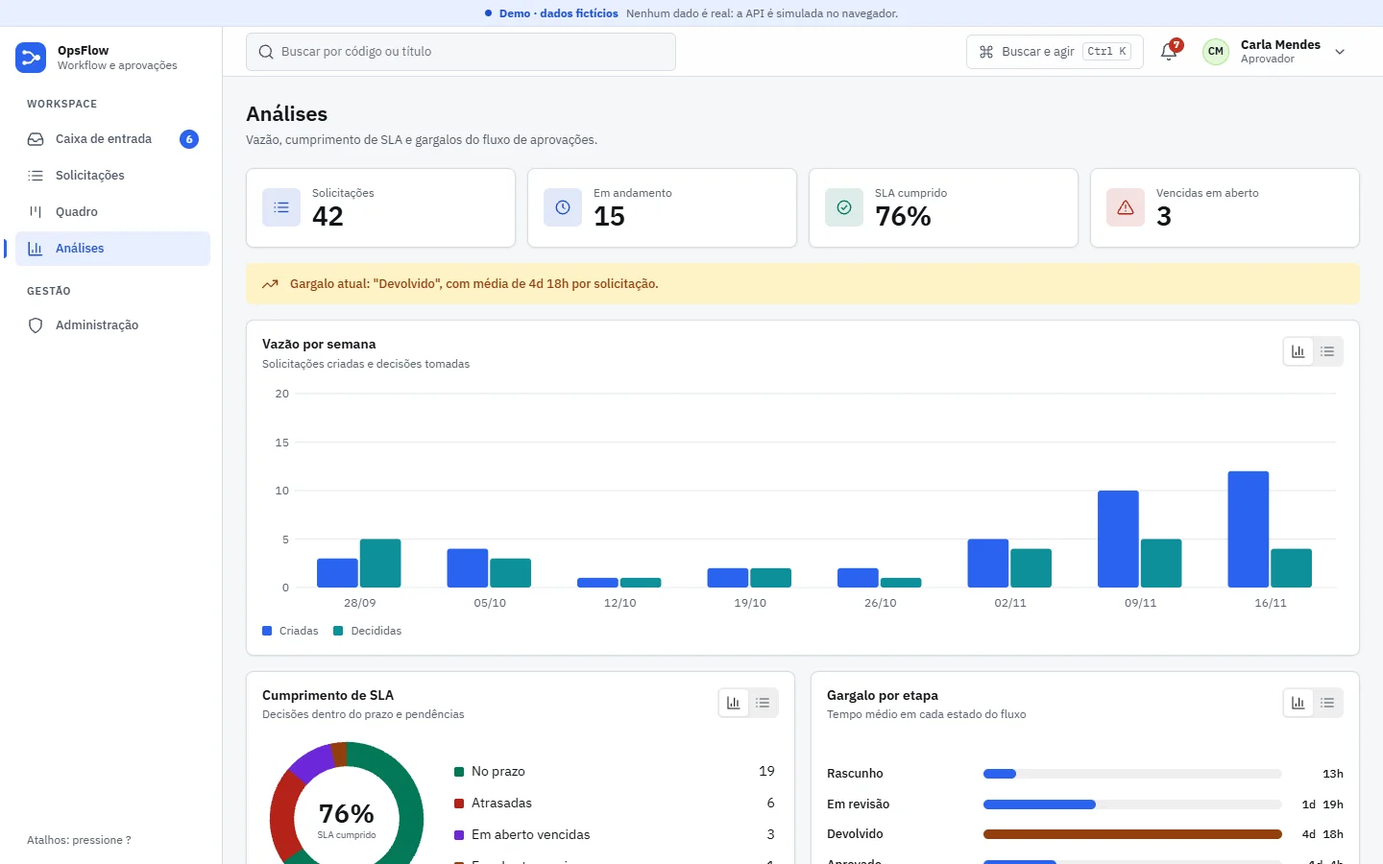
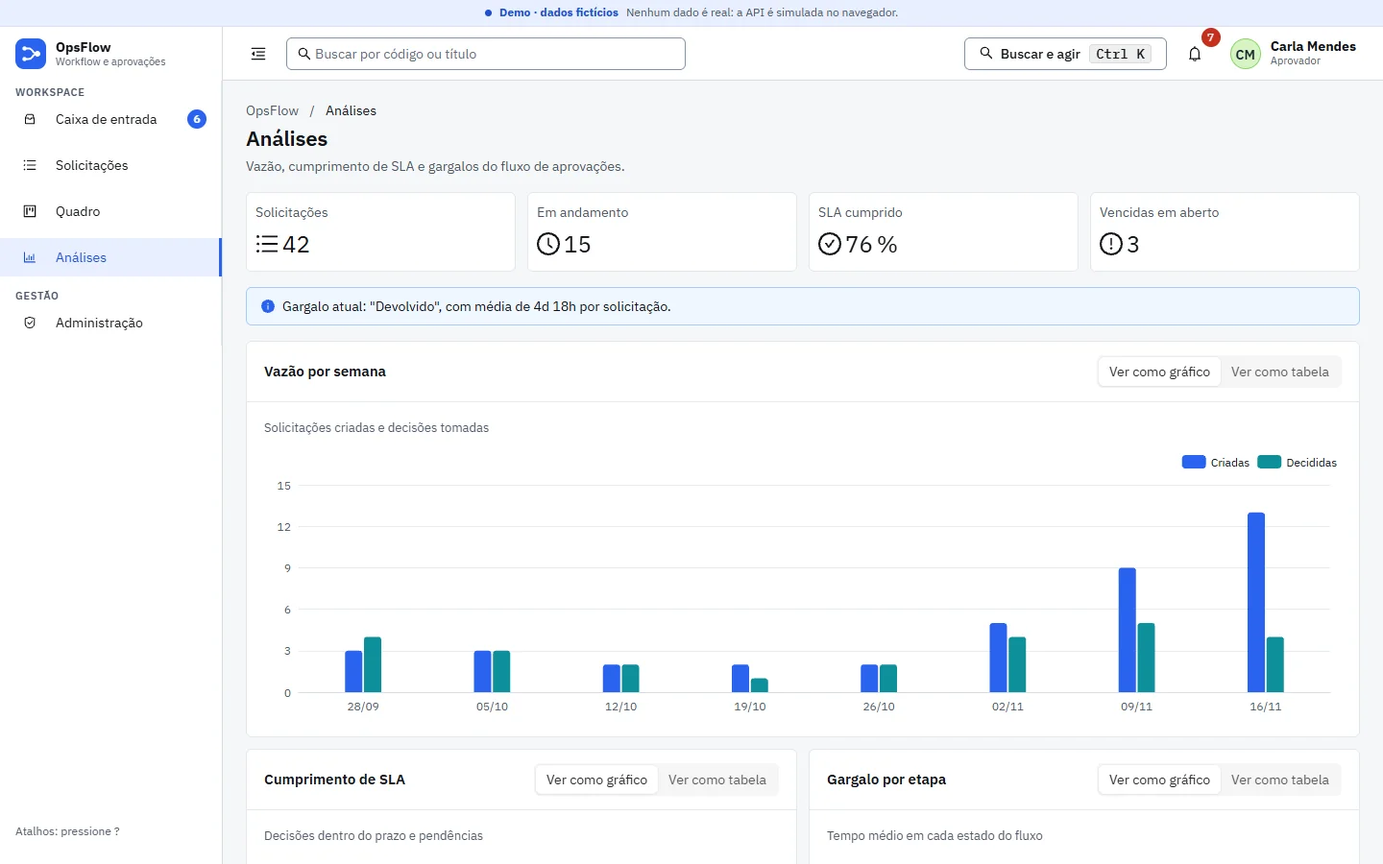
Update E2E with axe and geometry checks, CI, README, ADR and prints

diff --git a/README.md b/README.md
@@ -2,6 +2,8 @@
 
 Console de workflow e aprovações para quem decide o dia inteiro: cada papel abre o app na **caixa de entrada** das próprias tarefas, com SLA em contagem regressiva, aprovação em lote e atalhos de teclado. A demo abre como **Aprovador**, que é onde está o valor; o perfil troca o papel para ver o app como Solicitante, Revisor, Auditor ou Administrador. Por baixo há uma máquina de estados com permissões por papel, segregação de funções e trilha de auditoria imutável.
 
+A interface é feita com **NG-ZORRO (Ant Design para Angular)** e **Apache ECharts**, sempre por uma camada de wrappers própria (`src/app/ui`), com o tema do OpsFlow e Storybook de todos os componentes.
+
 Todos os dados são fictícios e a API é simulada no navegador (interceptor HTTP), então o app roda inteiro em qualquer hospedagem estática.
 
 **Demo:** https://nasckdev.github.io/opsflow/
@@ -44,13 +46,13 @@ Desktop em 1440x900 e celular em 390x844, com os dados fictícios de exemplo.
 
 - **Caixa de entrada por papel.** "Minhas tarefas" com contagem regressiva de SLA, filtros rápidos e salvos e atalhos `j`/`k`, `Enter`, `x`, `a`, `r`. Decidir **resolve a tarefa**: ela sai da caixa na hora, o contador e o selo caem, o SLA congela ("Decidida no prazo" ou "com 5h de atraso") e um aviso oferece **Desfazer** por 6 segundos (a decisão só é confirmada na API depois dessa janela). O que foi aprovado e falta concluir aparece no filtro "Para concluir".
 - **Aprovação em lote.** A seleção é congelada no clique, as chamadas rodam em paralelo com "Aprovando 3 de 8…" e barra de progresso, e o resultado lista o que foi pulado e por quê (item que passou do prazo no meio do caminho vira "pulado", sem abrir diálogo).
-- **Quadro kanban.** Arrastar com CDK DragDrop. Colunas que aceitam o movimento acendem durante o arraste; um movimento que a máquina de estados não prevê, ou que o papel não pode fazer, é bloqueado com explicação. Alternativa sem mouse: "Mover para" em cada cartão.
-- **Detalhe.** Cabeçalho com status e SLA, cadeia de aprovação (solicitação, revisão, aprovação, conclusão), ações conforme o papel, comentários em thread, anexos simulados e linha do tempo de auditoria.
-- **Nova solicitação.** Wizard em três etapas com validação, **rascunho salvo automaticamente** (recuperado ao recarregar) e revisão antes de enviar.
-- **Análises.** Vazão por semana, cumprimento de SLA, gargalo por etapa e ações por papel. Todo gráfico tem versão em tabela e descrição para leitor de tela.
-- **Administração.** Matriz de permissões visual, usuários de demonstração (atuar como) e as regras do fluxo.
-- **Lista de solicitações.** Tabela densa (ordenação por coluna, contadores por status, busca com debounce) que vira cartões no celular, e exportação em CSV (com proteção contra injeção de fórmula).
-- **Navegação de app.** Sidebar no desktop; no celular, barra inferior com Caixa, Quadro (ou Nova, para o Solicitante), Solicitações e **Mais** (Análises, Administração, Nova solicitação, paleta, atalhos e perfil), busca global, paleta de comandos (`Ctrl`/`⌘` + `K`), notificações, modal de atalhos (`?`) e estado na URL (rota por hash).
+- **Quadro kanban.** Arrastar com CDK DragDrop. Colunas que aceitam o movimento acendem durante o arraste; um movimento que a máquina de estados não prevê, ou que o papel não pode fazer, é bloqueado com explicação. Alternativa sem mouse: menu "Mover para" em cada cartão.
+- **Detalhe.** Cabeçalho com status e SLA, cadeia de aprovação em **Steps** (solicitação, revisão, aprovação, conclusão), ações conforme o papel, comentários em thread, anexos simulados e **Timeline** de auditoria.
+- **Nova solicitação.** Wizard em três etapas (**Steps**) com formulário reativo validado, **rascunho salvo automaticamente** (recuperado ao recarregar) e revisão antes de enviar.
+- **Análises.** Vazão por semana, cumprimento de SLA, gargalo por etapa e ações por papel, em ECharts. Todo gráfico tem versão em tabela e descrição para leitor de tela.
+- **Administração.** Matriz de permissões (RBAC) em tabela, usuários de demonstração (atuar como) e as regras do fluxo.
+- **Lista de solicitações.** Tabela com ordenação por coluna, filtros por status com contadores, paginação, busca com debounce e exportação em CSV (com proteção contra injeção de fórmula). No celular vira lista de cartões.
+- **Navegação de app.** `nz-layout` com sider recolhível, cabeçalho com busca, notificações e perfil, e trilha de navegação em cada tela. No celular, o menu vira gaveta e há barra inferior com Caixa, Quadro (ou Nova, para o Solicitante), Solicitações e **Mais** (Análises, Administração, Nova solicitação, paleta, atalhos e perfil). Paleta de comandos (`Ctrl`/`⌘` + `K`), modal de atalhos (`?`) e estado na URL (rota por hash).
 - **Preferências.** Papel, idioma (pt-BR e English, com plural correto), tema claro e escuro, densidade compacta ou confortável e "Simular falhas da API".
 
 ## Atalhos
@@ -64,35 +66,115 @@ Desktop em 1440x900 e celular em 390x844, com os dados fictícios de exemplo.
 | `j` `k` | Próxima e anterior tarefa (caixa de entrada) |
 | `Enter` / `x` / `a` / `r` | Abrir / selecionar para lote / aprovar / rejeitar ou devolver |
 
-## Identidade visual
-
-IBM Plex Sans na interface e IBM Plex Mono em códigos, IDs e prazos, ambas auto-hospedadas via `@fontsource` (nenhuma requisição externa). Grafite `#111418` e aço `#1C2128` no escuro, azul elétrico `#2F6BFF` como marca e ciano de destaque. Estados com cor semântica e sempre acompanhados de texto ou ícone: aprovado esmeralda, pendente âmbar, devolvido violeta, rejeitado vermelho, rascunho cinza. Cantos de 4 a 8 px e densidade ajustável.
-
-Os tokens vivem em `src/styles/tokens.scss`; as medidas do shell e os aliases de superfície, em `src/styles/base.scss`. No tema claro o ciano de gráficos é um tom mais escuro que o da marca, para manter 3:1 de contraste contra o fundo branco.
-
 ## Stack
 
-Angular 22 (standalone, signals, zoneless, control flow `@if/@for`), formulários reativos tipados, RxJS (busca com debounce e cancelamento via `switchMap`), Angular CDK (`Overlay`, `Dialog`, `DragDrop`, `TrapFocus`, `LiveAnnouncer`), SCSS, Vitest e Playwright + axe-core. Gráficos em SVG próprio, sem biblioteca.
+Angular 22 (standalone, signals, zoneless, control flow `@if/@for`), **NG-ZORRO 22.2.0** (Ant Design) com tema em Less, **ngx-echarts 22.0.0** sobre **Apache ECharts 6.1.0** (registro enxuto em `echarts/core`, renderer SVG), formulários reativos tipados, RxJS (busca com debounce e cancelamento via `switchMap`), Angular CDK (`DragDrop`, `LiveAnnouncer`, `BreakpointObserver`), SCSS, Vitest, Playwright + axe-core e **Storybook 10** (`@storybook/angular`) com o addon de acessibilidade.
+
+A escolha de versões está no [ADR 0001](docs/adr/0001-ui-ng-zorro-echarts.md): o NG-ZORRO 22.2.0 declara peers `@angular/* ^22.0.0`, então o Angular 22.3.0 do projeto ficou como estava (sem `ng update` nem downgrade).
+
+### Dependências e licenças
+
+Versões exatas no `package.json` (sem `^` nem `~`). Licenças conferidas em `node_modules` e com `npm view`.
+
+| Pacote | Versão | Licença | Uso |
+|---|---|---|---|
+| `ng-zorro-antd` | 22.2.0 | MIT | componentes (só dentro de `src/app/ui`) |
+| `@ant-design/icons-angular` | 22.1.1 | MIT | ícones (dependência do NG-ZORRO; só os usados são registrados) |
+| `echarts` | 6.1.0 | Apache-2.0 | gráficos |
+| `zrender` | 6.1.0 | BSD-3-Clause | motor de desenho do ECharts (transitiva) |
+| `ngx-echarts` | 22.0.0 | MIT | integração do ECharts com Angular |
+| `@angular/*` (core, common, forms, router, platform-browser, compiler, cdk) | 22.3.0 | MIT | framework |
+| `rxjs` | 7.8.2 | Apache-2.0 | reatividade |
+| `tslib` | 2.9.1 | 0BSD | helpers do TypeScript |
+| `@fontsource/ibm-plex-sans`, `@fontsource/ibm-plex-mono` | 5.3.0 | OFL-1.1 | fontes auto-hospedadas (já eram usadas antes) |
+| `storybook`, `@storybook/angular`, `@storybook/addon-a11y`, `@storybook/addon-docs` | 10.6.8 | MIT | Storybook (dev) |
+| `@angular-devkit/build-angular`, `@angular/platform-browser-dynamic`, `@angular/animations`, `zone.js` | 22.3.0 / 22.3.0 / 22.3.0 / 0.16.3 | MIT | exigidos pelo `@storybook/angular` (dev) |
+| `less` | 4.9.1 | Apache-2.0 | compila o tema do NG-ZORRO (dev) |
+| `@axe-core/playwright` | 4.14.0 | MPL-2.0 | axe nos testes E2E (dev; já era usado antes) |
+| `@playwright/test`, `typescript`, `vitest`, `eslint`, `angular-eslint` e demais ferramentas | ver `package.json` | MIT ou Apache-2.0 | testes, tipos e lint (dev) |
+
+Fora de "MIT ou Apache 2.0": as fontes (OFL-1.1, já existiam), `tslib` (0BSD), `zrender` (BSD-3-Clause, transitiva do ECharts) e o `axe-core` de testes (MPL-2.0, só desenvolvimento). Nenhuma é PrimeNG nem componente de licença restrita.
+
+`npm audit --omit=dev`: **0 vulnerabilidades**. O `npm audit` completo aponta 5 (2 moderadas e 3 altas) em dependências **só de desenvolvimento** do builder do Storybook (`webpack-dev-middleware`, `minimatch`); não entram no que vai para produção.
+
+## Camada de UI (`src/app/ui`)
+
+As telas **nunca** importam `ng-zorro-antd`, `echarts`, `ngx-echarts` nem os ícones: só os wrappers `app-*`. Uma regra de lint (`no-restricted-imports`, em `eslint.config.mjs`) barra esses imports fora de `src/app/ui`. Cada wrapper é standalone, com `OnPush`, signals e uma story com os estados e controles (`*.stories.ts`, na mesma pasta).
+
+Os inputs seguem o contrato de props dos wrappers React (`AppButton`: `variant`, `size`, `loading`, `disabled`, `icon`, `danger`):
+
+| Wrapper | Inputs principais | NG-ZORRO |
+|---|---|---|
+| `app-button` | `variant` (`primary`/`default`/`dashed`/`text`/`link`), `size` (`small`/`middle`/`large`), `loading`, `disabled`, `icon`, `danger`, `block`, `tone` (`success`, extensão do OpsFlow), `htmlType` | Button |
+| `app-icon-button` | `icon`, `label` (obrigatório), `variant`, `size`, `danger`, `loading`, `disabled` | Button |
+| `app-icon` | `name`, `size` (rem), `spin`, `label` | Icon |
+| `app-input` | `type` (`text`/`number`/`search`/`password`/`textarea`), `placeholder`, `maxlength`, `rows`, `invalid`, `prefixIcon`, `clearable` (CVA) | Input |
+| `app-select` | `options`, `placeholder`, `allowClear`, `searchable`, `invalid`, `size`, `ariaLabel` (CVA) | Select |
+| `app-checkbox`, `app-switch` | `ariaLabel`, `indeterminate` / `loading` (CVA) | Checkbox, Switch |
+| `app-date-picker` | `showTime`, `invalid`, `placeholder` (CVA, valor `aaaa-mm-ddThh:mm`) | DatePicker |
+| `app-form-item` | `label`, `forId`, `required`, `error`, `hint` | Form |
+| `app-segmented` | `options`, `value`, `ariaLabel`, `block` | Segmented |
+| `app-table` | `columns`, `data`, `loading`, `pageSize`, `sort`, `sortChange`; células por `ng-template appTableCell` | Table |
+| `app-list`, `app-pagination` | `data`, `trackBy` / `total`, `pageSize`, `page` | List, Pagination |
+| `app-card` | `title`, `bordered`, `hoverable`, `loading`, `size`, `flush` | Card |
+| `app-statistic` | `title`, `value`, `suffix`, `icon`, `tone`, `loading`, `animated` | Statistic |
+| `app-tag` | `tone`, `icon`, `checkable`, `checked` | Tag |
+| `app-status` | `status`, `label` | Badge (status) |
+| `app-avatar` | `name`, `size`, `src` | Avatar |
+| `app-badge` | `count`, `dot`, `standalone`, `tone` | Badge |
+| `app-progress` | `value`, `max`, `label`, `status`, `showInfo` | Progress |
+| `app-descriptions` | `column`, `bordered`, `layout`; itens `app-descriptions-item` | Descriptions |
+| `app-timeline` | `marks`, `data`; conteúdo por `ng-template` | Timeline |
+| `app-steps` | `steps`, `current`, `direction`, `size` | Steps |
+| `app-tabs` | `tabs`, `activeKey`, `type`, `size` | Tabs |
+| `app-empty`, `app-skeleton`, `app-alert`, `app-result` | `title`/`description` / `rows`, `count`, `avatar` / `type`, `message`, `closable` / `status`, `title` | Empty, Skeleton, Alert, Result |
+| `app-modal`, `app-drawer` | `open`, `title`, `width`, `footer` / `open`, `title`, `placement`, `width`, `height` | Modal, Drawer |
+| `appTooltip`, `app-dropdown`, `app-menu`, `app-breadcrumb`, `app-bottom-nav` | `items`, `groups`, `selectedKey`, `collapsed` | Tooltip, Dropdown, Menu, Breadcrumb |
+| `app-layout`, `app-page-header` | `collapsed`, `mobile` / `title`, `subtitle`, `breadcrumb` | Layout |
+| `app-chart` | `option`, `height`, `ariaLabel` | ECharts (ngx-echarts) |
+| `UiFeedback` + `app-feedback-host` | `show(texto, tipo, duração, ação?)` | Message |
+
+### Tema central
+
+- **Cores e formas:** `src/styles/overrides-light.less` e `overrides-dark.less` (variáveis do NG-ZORRO) e `src/styles/tokens.scss` (tokens CSS usados por wrappers e gráficos). Fontes IBM Plex Sans e Mono auto-hospedadas. Cantos de 6 px, base de 14 px.
+- **Claro e escuro:** o `UiTheme` ativa a folha `theme-light` ou `theme-dark` (as duas vêm no `index.html`; a do tema inativo fica com `media="not all"`). A escolha é lembrada e respeita `prefers-color-scheme`.
+- **Densidade:** compacta (padrão) ou confortável. Os wrappers mudam o tamanho dos controles (`middle` ou `large`) a partir do `UiTheme`.
+- **Contraste AA calculado:** o teste `theme-contrast.spec.ts` calcula a razão de cada par texto/fundo (mínimo 4,5:1) e de cada par de componente ou gráfico (mínimo 3:1) nos dois temas, e confere que as variáveis do NG-ZORRO batem com os tokens. O botão primário usa `#2a63f0` (5,07:1 com texto branco); o azul da marca `#2f6bff` dá 4,4988:1 e fica no logo e nos gráficos.
+
+## Storybook
+
+```bash
+npm run storybook        # http://localhost:6006
+npm run build-storybook  # storybook-static/ (roda no CI)
+```
+
+Há **129 stories em 39 arquivos** (uma ou mais por wrapper, ao lado do componente), com controles (`args`) nas props mais usadas e os estados que fazem sentido: padrão, desabilitado, carregando, erro e vazio. Rodei as 129 no build estático: todas renderizam sem erro e passam no axe (WCAG 2.1 AA).
+
+O Storybook usa o tema claro do app (tokens, fontes e folha clara do NG-ZORRO) e o addon de acessibilidade (`@storybook/addon-a11y`).
 
 ## Arquitetura
 
 ```mermaid
 flowchart TD
-  UI["Telas (features/*)<br/>caixa de entrada · quadro · detalhe · wizard · análises · admin"]
-  SHELL["Shell e UI de apoio<br/>popovers · paleta · atalhos · toasts"]
-  SVC["Serviços (core/*)<br/>RequestsStore · TransitionService · sessão · i18n · tema"]
+  FEAT["Telas (features/*)<br/>caixa de entrada · quadro · detalhe · wizard · análises · admin"]
+  UI["Camada de UI (ui/*)<br/>wrappers app-* · tema · ícones · gráficos"]
+  LIB["NG-ZORRO · ECharts"]
+  SHELL["Shell e UI de apoio<br/>gavetas · paleta · atalhos · avisos"]
+  SVC["Serviços (core/*)<br/>RequestsStore · TransitionService · sessão · i18n"]
   DOM["Domínio puro (domain/*)<br/>máquina de estados · RBAC · SLA · cadeia · analytics · inbox"]
   API["RequestsApi (HttpClient)"]
   MOCK["Interceptor mock<br/>MockDatabase em memória"]
-  UI --> SVC
+  FEAT --> UI --> LIB
+  SHELL --> UI
+  FEAT --> SVC
   SHELL --> SVC
-  UI --> DOM
+  FEAT --> DOM
   SVC --> DOM
   SVC --> API --> MOCK
   MOCK --> DOM
 ```
 
-O domínio é feito só de funções puras e testadas (`src/app/domain`). A interface nunca decide uma regra: ela pergunta ao domínio (`availableActions`, `checkTransition`, `requiresComment`) e o `TransitionService` é o único caminho para executar uma ação, seja pelo detalhe, pelo quadro ou pela caixa de entrada.
+O domínio é feito só de funções puras e testadas (`src/app/domain`) e **não mudou** nesta refatoração. A interface nunca decide uma regra: ela pergunta ao domínio (`availableActions`, `checkTransition`, `requiresComment`) e o `TransitionService` é o único caminho para executar uma ação, seja pelo detalhe, pelo quadro ou pela caixa de entrada.
 
 ### Máquina de estados
 
@@ -130,39 +212,58 @@ Testada por tabela em `src/app/domain/permissions.spec.ts` e exibida na tela Adm
 
 ## Segurança e limites da demonstração
 
-O RBAC e a validação **são aplicados na API simulada**, não só na tela: o ator vai nos cabeçalhos de cada chamada e o servidor filtra o que o Solicitante vê (só as próprias solicitações), remove a trilha de auditoria de quem não tem `audit.view`, recusa criar, enviar, comentar ou anexar sem permissão (403), valida todo corpo de entrada (422), só aceita anexos em rascunho ou devolvida e detecta conflito por status **e** versão (`updatedAt`), inclusive o caso A-B-A. Mesmo assim isto é uma demonstração: num produto real essas regras precisam viver no servidor, com autenticação de verdade, e o navegador nunca é fonte de confiança.
+O RBAC e a validação **são aplicados na API simulada**, não só na tela: o ator vai nos cabeçalhos de cada chamada e o servidor filtra o que o Solicitante vê (só as próprias solicitações), remove a trilha de auditoria de quem não tem `audit.view`, recusa criar, enviar, comentar ou anexar sem permissão (403), valida todo corpo de entrada (422), só aceita anexos em rascunho ou devolvida e detecta conflito por status **e** versão (`updatedAt`), inclusive o caso A-B-A. Mesmo assim isto é uma demonstração: num produto real essas regras precisam viver no servidor, com autenticação.
 
 ## Decisões
 
 1. **Cache único de solicitações (`RequestsStore`).** Caixa de entrada, quadro, análises, notificações e paleta leem do mesmo signal; uma ação em qualquer tela atualiza todas.
 2. **Uma porta para executar ações (`TransitionService`).** Valida no domínio, pede o comentário obrigatório num diálogo, chama a API, atualiza o cache e avisa o usuário. Evita três implementações divergentes da mesma regra.
 3. **Visões derivadas, não novos estados.** Cadeia de aprovação, notificações, caixa de entrada e análises são calculadas a partir da trilha de auditoria. O domínio e a máquina de estados não mudaram.
-4. **Gráficos em SVG próprio.** Controle total de cor, contraste, animação e acessibilidade, sem dependência pesada. Cada gráfico tem tabela equivalente.
-5. **Rota por hash e build portátil.** O mesmo artefato funciona em `/opsflow/` (Pages) e em qualquer subcaminho do portfólio.
-6. **Entradas do navegador não são confiáveis.** Rascunho do wizard e filtros salvos são validados campo a campo antes de usar; CSV neutraliza fórmulas; nomes de anexo são saneados.
-7. **Plural no dicionário.** Textos usam `{count, plural, one {…} other {…}}` em vez de "item(ns)".
-8. **Desfazer como janela de graça.** A máquina de estados não tem transição inversa, então "desfazer" não inventa uma: a decisão é aplicada na tela e só enviada depois de 6 segundos; desfazer cancela o envio. Se outra ação mexe na mesma solicitação antes disso, a pendente é confirmada primeiro.
-9. **Cadeia de aprovação honesta.** Só a etapa atual fica "Em andamento". A revisão é **opcional** (o aprovador pode decidir sem ela) e a interface diz isso.
-10. **Enviar é do dono.** Enviar e reenviar exigem ser o criador da solicitação (o administrador pode agir em nome dele, regra explícita e testada).
+4. **UI só por wrappers.** NG-ZORRO e ECharts ficam atrás de `src/app/ui`, com lint que barra o import direto. Trocar de biblioteca, ou manter o contrato igual ao dos apps React, mexe numa pasta só.
+5. **Tema por Less, com contraste testado.** O NG-ZORRO 22 é o Ant Design v4 (Less, sem `ConfigProvider`). As cores vivem em `overrides-*.less` e `tokens.scss`, e um teste confere o contraste e a coerência entre os dois.
+6. **Rota por hash e build portátil.** O mesmo artefato funciona em `/opsflow/` (Pages) e em qualquer subcaminho do portfólio.
+7. **Entradas do navegador não são confiáveis.** Rascunho do wizard e filtros salvos são validados campo a campo antes de usar; CSV neutraliza fórmulas; nomes de anexo são saneados.
+8. **Plural no dicionário.** Textos usam `{count, plural, one {…} other {…}}` em vez de "item(ns)".
+9. **Desfazer como janela de graça.** A máquina de estados não tem transição inversa, então "desfazer" não inventa uma: a decisão é aplicada na tela e só enviada depois de 6 segundos; desfazer cancela o envio. Se outra ação mexe na mesma solicitação antes disso, a pendente é confirmada primeiro.
+10. **Cadeia de aprovação honesta.** Só a etapa atual fica "Em andamento". A revisão é **opcional** (o aprovador pode decidir sem ela) e a interface diz isso.
+11. **Enviar é do dono.** Enviar e reenviar exigem ser o criador da solicitação (o administrador pode agir em nome dele, regra explícita e testada).
+12. **Gráficos em ECharts, no chunk das análises.** O registro enxuto (barras, linha, pizza, grade, tooltip, legenda, SVG) mora dentro do `app-chart`; o ECharts não entra no bundle inicial.
 
 ## Acessibilidade
 
-- Meta WCAG 2.2 AA. O E2E roda o **axe-core** em 7 telas nos dois temas (14 verificações) e exige zero violações.
+- Meta WCAG 2.2 AA. O E2E roda o **axe-core** em 7 telas, nos dois temas e em 360 e 1440 px (28 verificações), mais 6 diálogos e gavetas (paleta, atalhos, comentário obrigatório, notificações, perfil e a folha "Mais" do celular) nos mesmos temas e larguras, e exige zero violações.
+- A geometria de cada diálogo e gaveta é verificada: a caixa cabe inteira na janela (360 e 1440 px).
 - Link "Pular para o conteúdo", landmarks, títulos em ordem, rótulos em todos os campos e erros ligados ao campo (`aria-describedby`).
-- Teclado em tudo: foco sempre visível, diálogos com foco preso, `Esc` fecha e o foco volta a quem abriu.
-- Cor nunca é o único sinal: status levam texto, SLA leva ícone e texto, prioridade leva ícone.
-- Alvos de 44 px e `safe-area` no celular; sem rolagem horizontal da página.
+- Teclado em tudo: foco sempre visível, diálogos com foco preso, `Esc` fecha e o foco volta a quem abriu. A ordenação da tabela é por botão no cabeçalho.
+- Cor nunca é o único sinal: status levam texto e ícone, SLA leva ícone e texto, prioridade leva ícone.
+- Alvos de 44 px no celular (teste E2E mede os botões e a barra inferior); sem rolagem horizontal da página.
 - `prefers-reduced-motion` desliga animações e contadores.
-- Regiões vivas (`LiveAnnouncer` e toasts) para resultados assíncronos.
+- Regiões vivas (`LiveAnnouncer` e avisos) para resultados assíncronos.
 
 ## Testes
 
-- **275 testes unitários** (Vitest, 20 arquivos): máquina de estados, RBAC, SLA, auditoria, migração de legado, cadeia de aprovação, caixa de entrada, notificações, análises, ordenação, filtros, CSV, rascunho, plural e paridade dos dicionários pt-BR e en (inclui varredura das chaves usadas nos templates).
-- **52 testes E2E** (Playwright + axe) contra o build portátil servido em `/projetos/opsflow/`: axe nos dois temas, aprovar da caixa de entrada, comentário obrigatório, aprovação em lote, atalhos, arrastar no quadro (transição inválida bloqueada), segregação de funções, auditor somente leitura, comentários, rascunho do wizard, criação de solicitação, paleta, recarregar em rota interna e inglês.
+- **323 testes unitários** (Vitest, 21 arquivos): máquina de estados, RBAC, SLA, auditoria, migração de legado, cadeia de aprovação (agora em Steps), caixa de entrada, notificações, análises, ordenação, filtros, CSV, rascunho, plural, paridade dos dicionários pt-BR e en (inclui varredura das chaves usadas nos templates) e o **contraste calculado do tema** (`theme-contrast.spec.ts`). O domínio e os testes dele não mudaram.
+- **79 testes E2E** (Playwright + axe) contra o build portátil servido em `/projetos/opsflow/`:
+  - axe com zero violações e sem rolagem horizontal em 7 telas, nos dois temas, em 360 e 1440 px (28 testes), e sem erro no console;
+  - axe e geometria de 6 diálogos e gavetas (11 combinações por tema e largura): a caixa do painel cabe na janela;
+  - aprovar da caixa de entrada, desfazer, justificativa fora do prazo, comentário obrigatório, `Esc` devolvendo o foco, lote com progresso, atalhos `j`/`k`/`a`, arrastar no quadro (transição inválida bloqueada) e "Mover para", segregação de funções, auditor somente leitura, comentários, rascunho do wizard, validação e criação pelo wizard (com o seletor de data), paleta, recarregar em rota interna, inglês, menu lateral recolhido, tema escuro e a barra inferior e a gaveta do celular, com alvos de 44 px.
 
 ## Desempenho
 
-Bundle inicial: **495 kB** (127 kB transferidos). Cada tela é carregada sob demanda (o maior bloco é o quadro, com 68 kB, por causa do CDK DragDrop). Fontes em `woff2`, só o subconjunto latino.
+Antes (design feito à mão, gráficos em SVG próprio) e depois (NG-ZORRO + ECharts), no build portátil de produção:
+
+| | Antes | Depois |
+|---|---|---|
+| Inicial (JS + CSS), bruto | 495 kB | 1,94 MB |
+| Inicial, transferido | 127 kB | 326 kB |
+| JS inicial (bruto / transferido) | 495 kB / 127 kB | 1,03 MB / 243 kB |
+| CSS inicial: tema claro, tema escuro e globais (transferido) | embutido nos componentes | 40 kB + 40 kB + 3 kB |
+| Maior bloco sob demanda | 68 kB (quadro, CDK DragDrop) | 611 kB (análises, com o ECharts; 177 kB transferidos) |
+| Wizard (seletor de data) | pequeno | 140 kB (26 kB transferidos) |
+
+O "antes" é o número medido na versão anterior (bundle inicial de 495 kB, 127 kB transferidos). O "depois" vem do `ng build --configuration portable`, estimativa de transferência do próprio Angular CLI.
+
+O custo vem do NG-ZORRO (tabela, seletor de data, modais, menus, passos e ícones), das **duas** folhas de tema (clara e escura, cerca de 40 kB transferidos cada) e do Angular CDK. Cada tela é carregada sob demanda e o ECharts só entra no chunk das análises.
 
 ## Como rodar
 
@@ -170,10 +271,11 @@ Bundle inicial: **495 kB** (127 kB transferidos). Cada tela é carregada sob dem
 npm ci
 npm start               # http://localhost:4200
 npx ng test             # testes unitários (Vitest)
-npm run lint            # ESLint (angular-eslint, configuração flat)
+npm run lint            # ESLint (inclui a barreira de imports da UI)
 npm run build
-npm run build:portable  # dist-portable/ (base ./, rota por hash)
-npm run e2e             # Playwright + axe (usa o Chrome instalado e o build portátil)
+npm run build:portable  # dist-portable/ (base ./, rota por hash, nomes com hash)
+npm run build-storybook # storybook-static/
+npm run e2e             # Playwright + axe (usa o Chrome instalado e o build portátil; E2E_PORT muda a porta)
 ```
 
 ### Build portátil (qualquer subcaminho)
@@ -185,8 +287,9 @@ npm run e2e             # Playwright + axe (usa o Chrome instalado e o build por
 - Estado dos filtros da caixa de entrada e da lista na URL (hoje só a rota fica na URL; filtros salvos ficam no navegador).
 - Desfazer depois da janela de 6 s: dentro dela a decisão é adiada e pode ser cancelada; depois disso não há transição inversa na máquina de estados.
 - Anexos reais: são simulados (só o nome do arquivo é registrado).
-- Teste de componente de todos os fluxos: há specs de componente para Caixa de entrada, Cadeia de aprovação e Contagem, o resto fica no E2E.
-- Erro do quadro perto do cartão arrastado (hoje é um aviso global) e telas de erro/vazio ainda duplicadas entre páginas.
+- Alternância de tema no Storybook: ele carrega só a folha clara do NG-ZORRO.
+- Teste de componente de todos os fluxos: há specs de componente para Caixa de entrada, Cadeia de aprovação e Contagem; o resto fica no E2E.
+- A folha do tema inativo ainda é baixada (com baixa prioridade); carregar só a do tema ativo exigiria um passo de build extra.
 - A segurança (papéis, validação, concorrência) vive na API simulada: é uma demonstração, não autenticação real.
 
 ## Licença

diff --git a/docs/adr/0001-ui-ng-zorro-echarts.md b/docs/adr/0001-ui-ng-zorro-echarts.md
@@ -1,0 +1,42 @@
+# ADR 0001: UI com NG-ZORRO, ECharts e uma camada de wrappers própria
+
+- **Data:** 2026-11-20
+- **Estado:** aceita
+
+## Contexto
+
+O dono do projeto não gostou do design feito à mão e determinou o padrão de UI dos apps do portfólio: Ant Design (no Angular, NG-ZORRO), Apache ECharts para gráficos, wrappers próprios para isolar a biblioteca, tema central com a identidade de cada app e Storybook com todos os componentes.
+
+## Verificação de compatibilidade (feita antes de instalar)
+
+| Pacote | Versão | Peer dependencies | Licença |
+|---|---|---|---|
+| `ng-zorro-antd` | 22.2.0 (publicada em 2026-11-04) | `@angular/core`, `forms`, `common`, `router`, `platform-browser` em `^22.0.0` | MIT |
+| `ngx-echarts` | 22.0.0 | `@angular/core >=22.0.0`, `echarts >=5.0.0` | MIT |
+| `echarts` | 6.1.0 | nenhuma | Apache-2.0 |
+| `@storybook/angular` | 10.6.8 | `@angular/core >=18.0.0 <23.0.0` | MIT |
+
+O projeto usa Angular 22.3.0. As peers pedem `^22.0.0`, então **há versão do NG-ZORRO compatível com o Angular 22 e nenhuma migração (`ng update`) nem downgrade foi necessário**. A regra do padrão ("se não houver compatibilidade, use a versão mais nova do Angular suportada") não precisou ser aplicada.
+
+## Decisões
+
+1. **Versões exatas** no `package.json` (sem `^` nem `~`), inclusive as dependências que já existiam.
+2. **Tema por Less, não por tokens.** O NG-ZORRO 22 ainda é o Ant Design v4 em Less (não tem `ConfigProvider` com tokens). A identidade do OpsFlow entra por `src/styles/overrides-*.less`, importado depois do tema do NG-ZORRO (em Less, a última definição de cada variável vale). Há duas folhas compiladas (`theme-light` e `theme-dark`), só com os componentes usados; o `UiTheme` ativa uma e desativa a outra (`media`). Isso custa cerca de 40 kB transferidos a mais (a folha do tema inativo também é baixada, com baixa prioridade).
+3. **Fonte única das cores.** `src/styles/tokens.scss` guarda as cores (CSS custom properties) usadas por wrappers, gráficos e peças próprias. Um teste (`theme-contrast.spec.ts`) lê esse arquivo e os `overrides-*.less`, calcula o contraste WCAG de cada par nos dois temas e garante que as variáveis do NG-ZORRO batem com os tokens.
+4. **Primário de botão `#2a63f0`, marca `#2f6bff`.** Branco sobre `#2f6bff` dá 4,4988:1 (abaixo de 4,5). O botão usa `#2a63f0` (5,07:1); o logo e os gráficos mantêm o tom da marca.
+5. **Wrappers em `src/app/ui/`.** As telas só importam de lá. O ESLint (`no-restricted-imports`) barra `ng-zorro-antd`, `echarts`, `ngx-echarts` e `@ant-design/icons-angular` fora dessa pasta. Os inputs seguem os nomes das props dos wrappers React (por exemplo, `AppButton`: `variant`, `size`, `loading`, `disabled`, `icon`, `danger`).
+6. **Bundle.** `"sideEffects": false` e import por componente deixam as rotas carregarem só o que usam; o ECharts é registrado de forma enxuta (`echarts/core` com barras, linha, pizza, grade, tooltip, legenda e renderer SVG) dentro do `app-chart`, que só existe no chunk das análises.
+7. **Ícones.** Só os ícones usados são registrados (`provideNzIcons`).
+8. **Storybook 10 (webpack).** O `@storybook/angular` usa o builder webpack e pede `@angular-devkit/build-angular`, `@angular/platform-browser-dynamic`, `@angular/animations` e `zone.js` (dependências de desenvolvimento). O app em si continua zoneless; o Storybook roda com `experimentalZoneless`.
+
+## Consequências
+
+- Bundle inicial maior que o do design à mão (ver o README, com os números antes e depois): o custo do NG-ZORRO e das duas folhas de tema.
+- `npm audit --omit=dev` fecha com 0 vulnerabilidades. O `npm audit` completo aponta 5 (2 moderadas, 3 altas) em dependências **só de desenvolvimento** do builder do Storybook (`webpack-dev-middleware` e `minimatch`); a correção exigiria forçar uma versão major do Storybook, e elas não entram no que vai para produção.
+- O tema escuro do Storybook não alterna: o Storybook carrega só a folha clara.
+
+## Alternativas descartadas
+
+- **PrimeNG 22+:** fora da licença permitida.
+- **Tema pelas variáveis CSS do NG-ZORRO (`ng-zorro-antd.variable`):** só cobre as cores semânticas; texto e fundos continuam fixos, e não existe versão escura com variáveis.
+- **Importar o NG-ZORRO direto nas telas:** perde o isolamento e o contrato único entre os frameworks.
